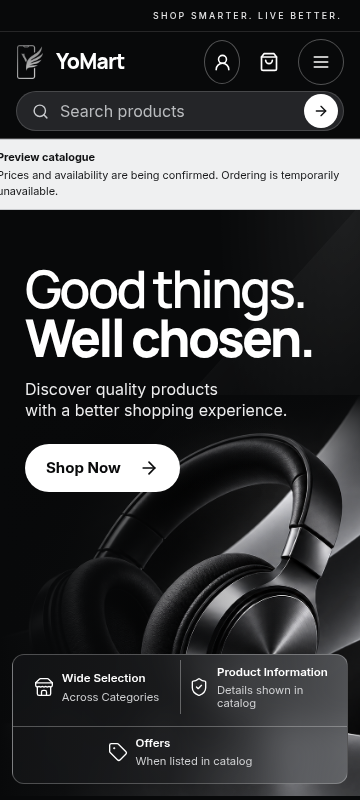
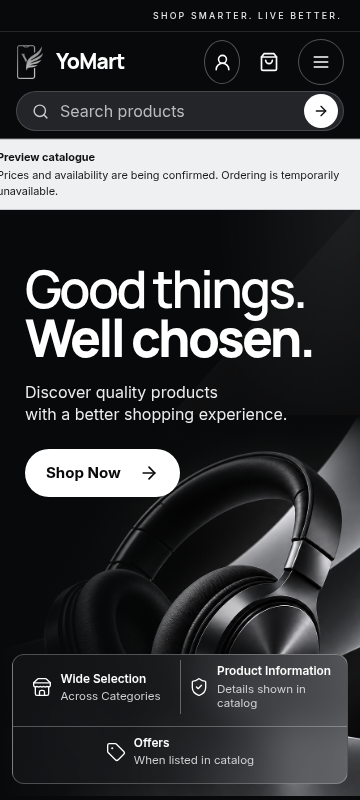
style: polish homepage navigation and mobile spacing

Changed region(s): [[0.0611, 0.4688, 1.0, 0.9062], [0.3056, 0.9062, 0.7028, 0.9688], [0.9778, 0.9062, 1.0, 0.9375]]

diff --git a/src/style.css b/src/style.css
@@ -896,6 +896,12 @@ main > * { animation: page-enter 520ms var(--ease-emphasized) both; }
 .homepage .hero-features strong { color: #fff; font-size: clamp(.85rem, 1.25vw, 1.12rem); font-weight: 600; }
 .homepage .hero-features small { color: #d0d1d3; font-size: clamp(.72rem, 1vw, .9rem); }
 .homepage > .content-section, .homepage > .closing-callout { color: var(--color-text); }
+@media (min-width: 1101px) and (max-width: 1340px) {
+  .home-site-frame .site-header { gap: 12px; padding-inline: 2.5vw; }
+  .home-site-frame .main-nav { gap: 2px; }
+  .home-site-frame .main-nav a { padding-inline: 5px; font-size: .76rem; }
+  .home-site-frame .header-search { flex: 0 1 270px; min-width: 205px; max-width: 270px; margin-left: 8px; }
+}
 @media (max-width: 900px) {
   .home-site-frame .site-header { gap: 10px; }
   .home-site-frame .main-nav { gap: 0; }
@@ -921,18 +927,19 @@ main > * { animation: page-enter 520ms var(--ease-emphasized) both; }
   .home-site-frame .preview-catalog-notice { order: 5; width: calc(100% + 32px); margin-inline: -16px; font-size: .68rem; }
   .homepage .hero-wrap { min-height: min(610px, calc(100svh - 214px)); padding: 54px 25px 120px; }
   .homepage .hero-copy { width: 100%; }
-  .homepage .hero-copy h1 { max-width: 11ch; margin-bottom: 16px; font-size: clamp(3.2rem, 14vw, 4.1rem); }
-  .homepage .hero-copy > p { max-width: 28ch; font-size: 1rem; }
-  .homepage .hero-shop-button { min-height: 48px; margin-top: 22px; padding-inline: 21px; font-size: .94rem; }
-  .homepage .hero-artwork { inset: 185px -18px 0 0; }
+  .homepage .hero-copy h1 { max-width: 11ch; margin-bottom: 18px; font-size: clamp(3.2rem, 14vw, 4.1rem); }
+  .homepage .hero-copy > p { max-width: 36ch; font-size: 1rem; line-height: 1.4; }
+  .homepage .hero-shop-button { min-height: 48px; margin-top: 24px; padding-inline: 21px; font-size: .94rem; }
+  .homepage .hero-artwork { inset: 205px -18px 0 0; }
   .homepage .hero-artwork img { object-position: 88% center; }
   .homepage .hero-artwork::after { background: linear-gradient(90deg, #08090a 0%, rgb(8 9 10 / 92%) 17%, rgb(8 9 10 / 38%) 49%, transparent 76%), linear-gradient(180deg, #08090a 0%, transparent 24%); }
   .homepage .hero-features { z-index: 3; right: 12px; bottom: 12px; left: 12px; min-height: 130px; grid-template-columns: repeat(2, minmax(0, 1fr)); grid-template-rows: 1fr 1fr; border-radius: 12px; }
   .homepage .hero-features > div { min-height: 54px; flex-direction: row; gap: 8px; padding-inline: 8px; text-align: left; }
   .homepage .hero-features > div:nth-child(3) { grid-column: 1 / -1; min-height: 50px; justify-content: center; border-top: 1px solid rgb(255 255 255 / 28%); border-left: 0; }
   .homepage .hero-features svg { width: 20px; height: 20px; flex: none; }
-  .homepage .hero-features strong { font-size: .72rem; }
-  .homepage .hero-features small { max-width: none; font-size: .7rem; line-height: 1.2; }
+  .homepage .hero-features span { min-width: 0; text-align: left; }
+  .homepage .hero-features strong { font-size: .74rem; line-height: 1.2; }
+  .homepage .hero-features small { max-width: none; font-size: .72rem; line-height: 1.25; }
 }
 @media (hover: none) {
   .quick-add { opacity: 1; transform: none; }

diff --git a/docs/redesign-review/homepage/review-notes.md b/docs/redesign-review/homepage/review-notes.md
@@ -1,31 +1,29 @@
-# Homepage artwork review
+# Homepage visual review
 
-## Implementation
+## Final polish
 
-- Replaced the old front-facing illustration layer with `public/homepage-headphones-hero.png`, the owner-provided 1672×941 PNG. It is illustrative hero artwork only; it is not a catalog item. The existing `homepage-headphones.webp` file remains in the repository but is no longer referenced by the homepage.
-- The source artwork includes the three-quarter-view black headphones, dark left-side negative space, and metallic silver curves. It is displayed full-bleed on desktop, so its image edges blend with the hero surface. The duplicate CSS silver arcs and their image-blending treatment were removed.
-- Mobile uses a separate lower, right-biased crop. The hero height contracts on shorter mobile viewports so the three-part feature strip remains fully visible at 360×800. Feature descriptions were increased slightly for readability.
-- Preserved the headline, supporting copy, Shop Now route, official YoMart mark, all nine desktop navigation destinations, search/account/cart behavior, API-backed catalog sections, and preview-catalog restrictions.
-- Removed the decorative, non-interactive hero dots; the hero is static and no longer implies a carousel.
+- Kept the approved owner-provided headphone artwork, monochrome hero treatment, headline, supporting copy, logo, Shop Now route, and feature wording unchanged.
+- At 1101–1340px, reduced search-field width and tuned the homepage navigation spacing/type so the logo, all nine destinations, search, account, and cart have a more balanced single-row layout. At 1440px the existing desktop spacing remains in effect.
+- On mobile, widened the supporting-copy measure so it wraps to two lines at both reviewed widths, increased the headline-to-copy and copy-to-CTA spacing slightly, and moved the existing lower/right image crop down 20px. Feature labels have a small readability increase and left-aligned text within each group.
+- Changes are scoped to homepage selectors. Catalogue sections, preview restrictions, other routes, and the hero asset are unchanged.
 
-## Screenshot captures
+## Screenshot review
 
-Captured from the local staging build using Chromium at device scale factor 1. The live catalog was not used to add any product to the hero; preview restrictions remain enabled.
+Fresh Chromium captures from the local staging build, device scale factor 1:
 
-- `desktop-1440x1000.png` — 1440×1000.
-- `desktop-1280x900.png` — 1280×900.
-- `mobile-390x844.png` — 390×844.
-- `mobile-360x800.png` — 360×800.
+- `desktop-1440x1000.png` — 1440×1000. Original desktop navigation layout retained; all nine links visible.
+- `desktop-1280x900.png` — 1280×900. Search is narrower and all nine destinations remain comfortably visible at the tuned size.
+- `mobile-390x844.png` — 390×844. Copy wraps in two lines, CTA remains readable, headphone art stays lower/right, and all feature groups fit.
+- `mobile-360x800.png` — 360×800. Same composition at the narrower width; feature descriptions remain legible and fully within the strip.
 
-## Visual inspection and remaining differences
-
-- Both desktop captures show the headphones dominant on the right, with the headline and Shop Now action clear on the left. The image’s silver sweep is integrated without a second CSS arc or a visible rectangular boundary. The feature strip overlays the lower composition without obscuring the headphone form.
-- Both mobile captures use the separate crop: text remains on the left/top, the headphones sit lower and to the right, and the feature strip fits inside each viewport. At 360px the right edge of the headphone artwork is intentionally cropped to keep the subject prominent.
-- The screenshots include the visible staging preview notice. No production catalog or checkout behavior is implied by these captures.
-- The flat reference artwork does not include separate layers, so the original image’s curve geometry and headphone lighting cannot be adjusted independently in CSS.
+Screenshots show the staging preview notice and no real-catalog claims in the hero. The fixed background artwork remains a single approved asset; no CSS silver arc was added.
 
 ## Validation
 
-- `npm test`: 49 passed, 0 failed.
-- Staging build: passed with the existing origin validation and noindex protections.
+- `npm test`: 49 passed, 0 failed, 0 skipped.
+- Staging build: passed with API/site origin validation and staging noindex protections.
 - `git diff --check`: passed.
+
+## Remaining visual note
+
+- The staging preview notice wraps tightly on narrow mobile screens. This is existing shared notice content, separate from the homepage hero polish; it does not overlap the headline, artwork, CTA, or feature strip.
